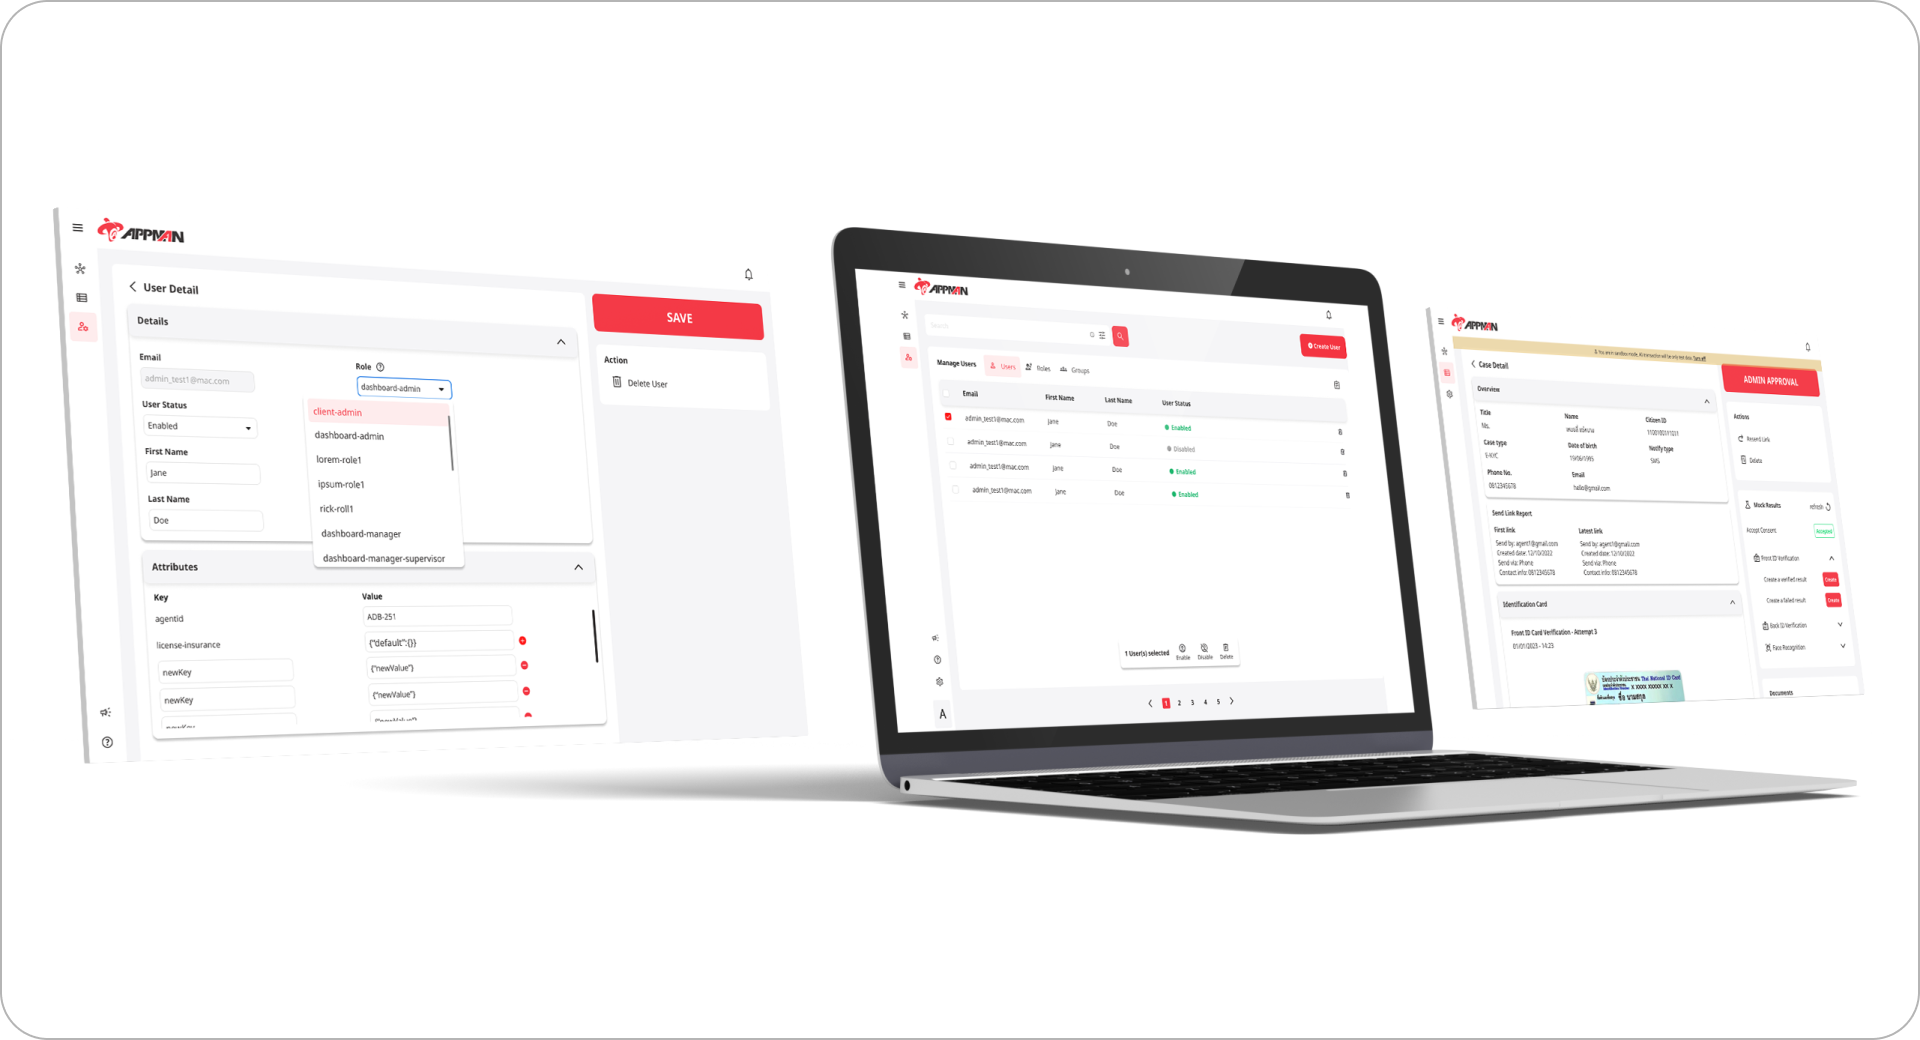
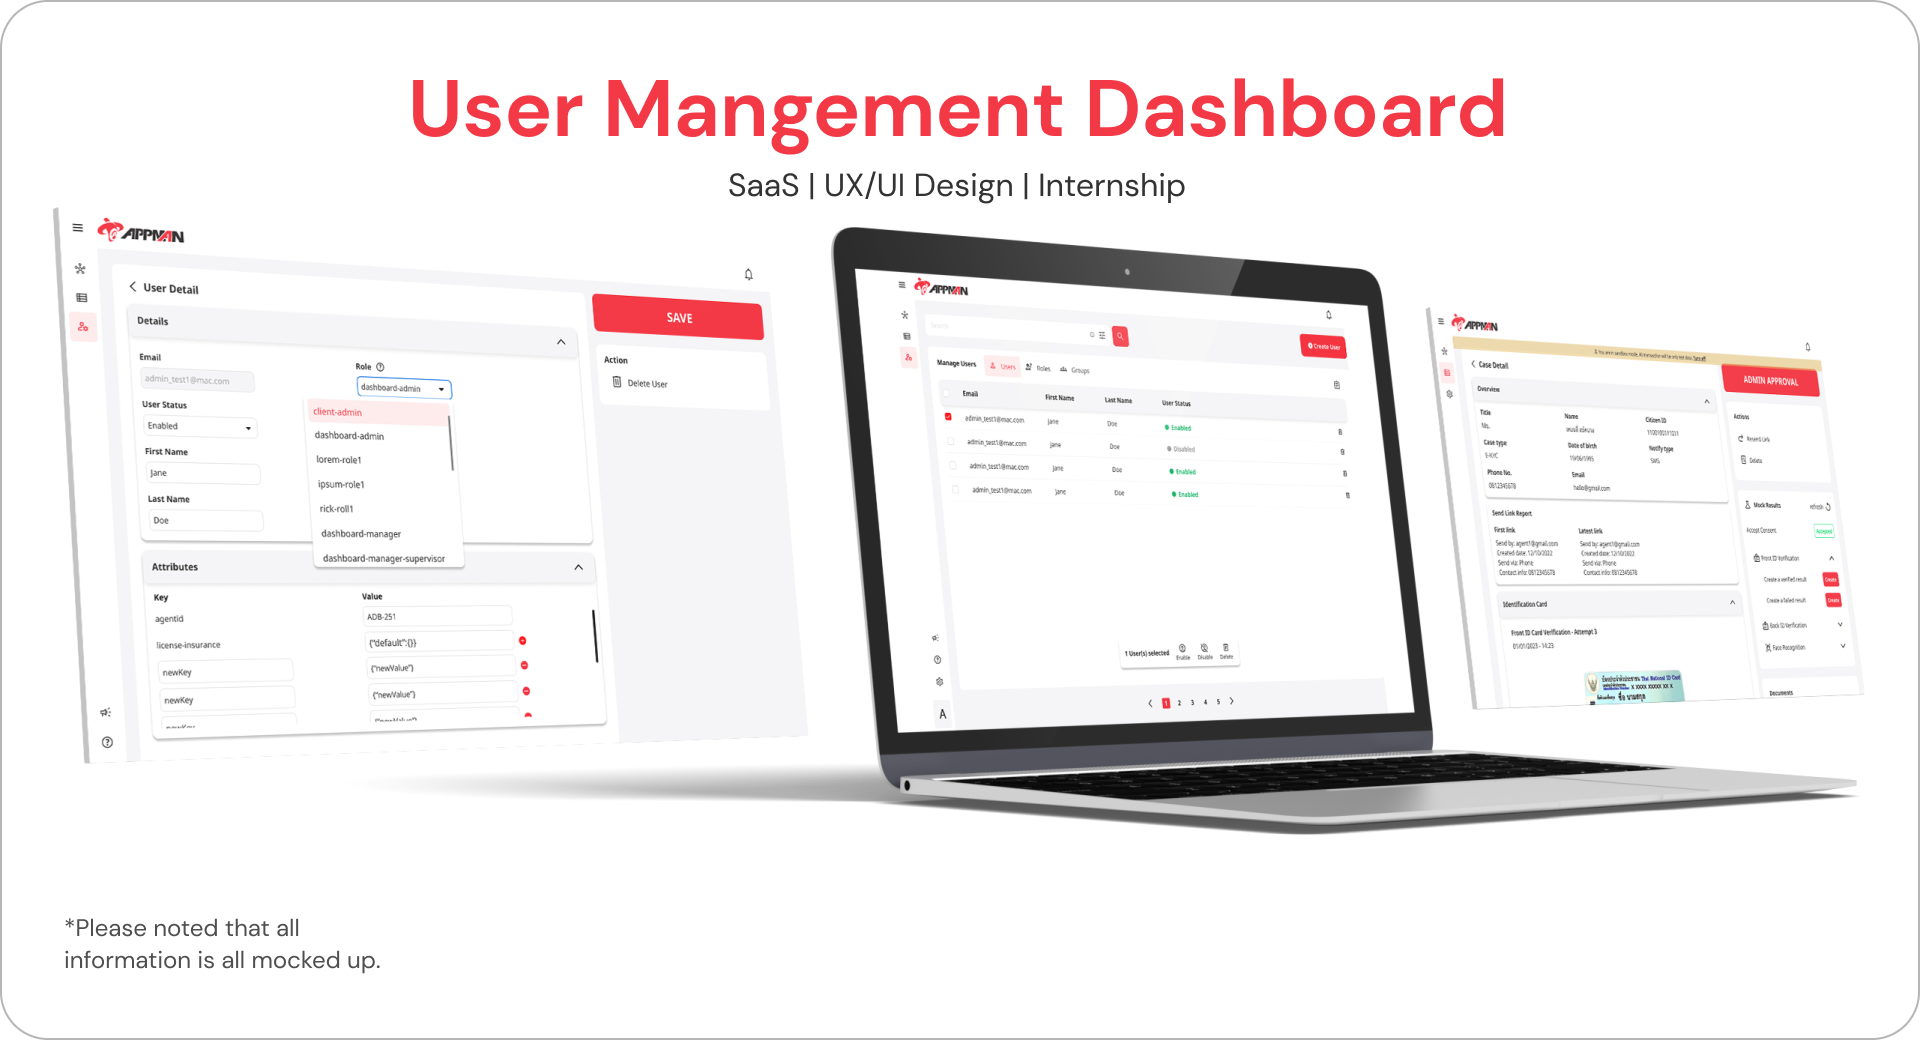
redesign home page

Changed region(s): [[0.1875, 0.0615, 0.7812, 0.1846], [0.0312, 0.8923, 0.1562, 0.9538], [0.1562, 0.9231, 0.1875, 0.9538]]

diff --git a/src/components/views/HomePage.vue b/src/components/views/HomePage.vue
@@ -9,6 +9,16 @@ import InstagramSVG from '../../assets/instagram_svgrepo.com.svg'
 import ResumeSVG from '../../assets/resume.svg'
 import TranscriptSVG from '../../assets/transcript.svg'
 import GoSVG from '../../assets/bubble.svg'
+import GreenSVG from '../../assets/open-status.svg'
+import MapSVG from '../../assets/map-pin-fill.svg'
+import GlobeSVG from '../../assets/globe-fill.svg'
+import CertSVG from '../../assets/certificate-fill.svg'
+import GraduateSVG from '../../assets/graduation-cap-fill.svg'
+
+
+
+
+
 
 const goToLinkedIn = () => {
     window.open('https://www.linkedin.com/in/joe-pattarapon-a06011214/', '_blank')
@@ -41,38 +51,85 @@ const copyEmail = () => {
 
 <template>
     <div class="">
-
         <div class="fade-in-up mx-auto max-w-screen-lg min-h-screen mb-6">
-            <div class="w-full  ">
-                <div class="mx-6 my-6 bg-[#272727] border border-[#ffffff]/5 rounded-xl">
-                    <div class="my-10 mx-6">
-                        <h1 class="text-white text-4xl mb-6">
-                            <span class="">Hi, I’m </span><span class="font-medium">Joe Pattarapon</span>
-                        </h1>
-                        <p class="text-2xl text-[#E9EAEB] break-words">Passionate about design and enjoy making ideas
-                            for better
-                            solution. Passionate about design and enjoy making ideas for better solution.</p>
-                    </div>
-                </div>
-            </div>
-
             <!--About Section---->
             <div class="">
-                <div class="grid grid-cols-12 gap-6 mx-6">
-                    <!-- Column -->
-                    <div class="col-span-12 md:col-span-4">
-                        <img src="../../assets/me-white-bg.png" class=" object-cover object-center ">
+                <div class="grid grid-cols-12 gap-4 mx-6 mt-6">
+                    <!-- Profile -->
+                    <div class="col-span-12 md:col-span-7 bg-[#1C1C1C] 
+                    border border-[#ffffff]/5 rounded-xl ">
+                        <!-- Profile Details -->
+                        <div class="flex flex-cols-1 md:flex-cols-2 mt-6 mx-6 gap-x-6">
+                            <!-- Left Details -->
+                            <img src="../../assets/joe-picture.png"
+                                class="object-cover object-center max-w-[140px] md:max-w-full md:w-[140px] rounded-xl" />
+                            <!-- Right Details -->
+                            <div class="w-full">
+                                <h1
+                                    class="flex text-[#F2F2F2] px-3 py-1 border border-[#ffffff]/5 bg-[#1E1E1E] rounded-full w-fit mb-2 md:mb-4 text-xs sm:text-sm md:text-base lg:text-lg">
+                                    <span>
+                                        <GreenSVG class="inline-block align-middle mr-1 sm:mr-2" />
+                                    </span>Open to Work
+                                </h1>
+                                <h1 class="text-[#F2F2F2] text-2xl sm:text-3xl md:text-4xl mb-2 md:mb-4 font-bold">Joe
+                                    Pattarapon
+                                </h1>
+                                <h1 class="text-[#F2F2F2] text-sm sm:text-base md:text-base lg:text-lg mb-2 md:mb-4">I'm
+                                    a <span
+                                        class="font-bold bg-gradient-to-r from-[#2F80ED] to-[#BB6BD9] inline-block text-transparent bg-clip-text">Designer/Developer</span>
+                                </h1>
+                            </div>
+                        </div>
+
+                        <!-- FYI Details -->
+                        <div class="w-full mt-4 mb-4">
+                            <div class="border mx-6 p-4 border-[#ffffff]/5 rounded-xl bg-[#1E1E1E] 
+                                flex flex-wrap gap-2">
+                                <!-- Location -->
+                                <div
+                                    class="flex items-center px-2 py-1 bg-[#202020] border border-[#ffffff]/5 rounded-full mb-2 sm:mb-0">
+                                    <span class="inline-block align-middle mr-2">
+                                        <MapSVG class="h-4 w-4" />
+                                    </span>
+                                    <span class="text-xs sm:text-sm text-white whitespace-nowrap">Thailand</span>
+                                </div>
+                                <!-- Language -->
+                                <div
+                                    class="flex items-center px-2 py-1 bg-[#202020] border border-[#ffffff]/5 rounded-full mb-2 sm:mb-0">
+                                    <span class="inline-block align-middle mr-2">
+                                        <GlobeSVG class="h-4 w-4" />
+                                    </span>
+                                    <span class="text-xs sm:text-sm text-white whitespace-nowrap">Thai & English</span>
+                                </div>
+                                <!-- University -->
+                                <div
+                                    class="flex items-center px-2 py-1 bg-[#202020] border border-[#ffffff]/5 rounded-full mb-2 sm:mb-0">
+                                    <span class="inline-block align-middle mr-2">
+                                        <CertSVG class="h-4 w-4" />
+                                    </span>
+                                    <span class="text-xs sm:text-sm text-white whitespace-nowrap">KMUTT
+                                        University</span>
+                                </div>
+                                <!-- Major -->
+                                <div
+                                    class="flex items-center px-2 py-1 bg-[#202020] border border-[#ffffff]/5 rounded-full mb-2 sm:mb-0">
+                                    <span class="inline-block align-middle mr-2">
+                                        <GraduateSVG class="h-4 w-4" />
+                                    </span>
+                                    <span class="text-xs sm:text-sm text-white whitespace-nowrap">Information
+                                        Technology</span>
+                                </div>
+                            </div>
+                        </div>
+
                     </div>
                     <!-- Column -->
-                    <a href="" class="col-span-12 md:col-span-8 bg-[#272727] border border-[#ffffff]/5 rounded-xl 
-            w-full transition-colors duration-300 ease-in-out hover:bg-[#3a3a3a]">
+                    <a href="" class="col-span-12 md:col-span-5 bg-[#1C1C1C] border border-[#ffffff]/5 rounded-xl 
+                        w-full transition-colors duration-300 ease-in-out hover:bg-[#3a3a3a]">
                         <h1 class="font-medium text-lg text-[#8A949C] mx-6 mt-6">ABOUT</h1>
-                        <p class="mt-4 font-medium mx-6 text-2xl text-white break-words">
-                            Lorem Ipsum is simply dummy text of the printing and typesetting industry. Lorem Ipsum has
-                            been the
-                            industry's standard dummy text ever since the 1500s, when an unknown printer took a galley
-                            of type and
-                            scrambled it to make a type specimen book.
+                        <p class="mt-4 mx-6 text-xl text-white break-words">
+                            A senior IT student who passionate about digital product design and
+                            web app development.
                         </p>
                         <!-- Read more button -->
                         <div class="flex justify-end my-8">
@@ -226,7 +283,7 @@ body {
 }
 
 body {
-    background-color: #1C1C1C;
+    background-color: #141414;
 }
 
 @keyframes fade-in-up {

diff --git a/src/components/views/PortfolioPage.vue b/src/components/views/PortfolioPage.vue
@@ -19,35 +19,35 @@ const portfolios = ref([
         portName: 'MOD RIDE - Ride Sharing in KMUTT',
         category: 'UX/UI',
         imgSrc: mrImg,
-        subTitle: 'Experiential Learning Project 2023 - 2024'
+        subTitle: 'Capstone Project 2023 - 2024'
     },
     {
         portId: 2,
         portName: 'eKYC Web Application',
         category: 'UX/UI',
         imgSrc: ekycImg,
-        subTitle: 'Work Integreated Learning Jan. - Jun. 2023 (6 months)'
+        subTitle: 'UX/UI Design Internship Jan. - Jun. 2023 (6 months)'
     },
     {
         portId: 3,
-        portName: 'Case-Keeper Dashboard',
+        portName: 'User Management Dashboard',
         category: 'UX/UI',
         imgSrc: caseKeeperImg,
-        subTitle: 'Work Integreated Learning Jan. - Jun. 2023 (6 months)'
+        subTitle: 'UX/UI Design Internship Jan. - Jun. 2023 (6 months)'
     },
     {
         portId: 4,
         portName: 'Dip Chip Rider',
         category: 'UX/UI',
         imgSrc: dipChipImg,
-        subTitle: 'Work Integreated Learning Jan. - Jun. 2023 (6 months)'
+        subTitle: 'UX/UI Design Internship Jan. - Jun. 2023 (6 months)'
     },
     {
         portId: 5,
         portName: 'Hotel Check-in Kiosk',
         category: 'UX/UI',
         imgSrc: hotelKioskImg,
-        subTitle: 'Work Integreated Learning Jan. - Jun. 2023 (6 months)'
+        subTitle: 'UX/UI Design Internship Jan. - Jun. 2023 (6 months)'
     },
     {
         portId: 6,

diff --git a/src/App.vue b/src/App.vue
@@ -77,7 +77,7 @@ body {
 }
 
 body {
-  background-color: #1C1C1C;
+  background-color: #141414;
 }
 
 @keyframes fade-in-up {
